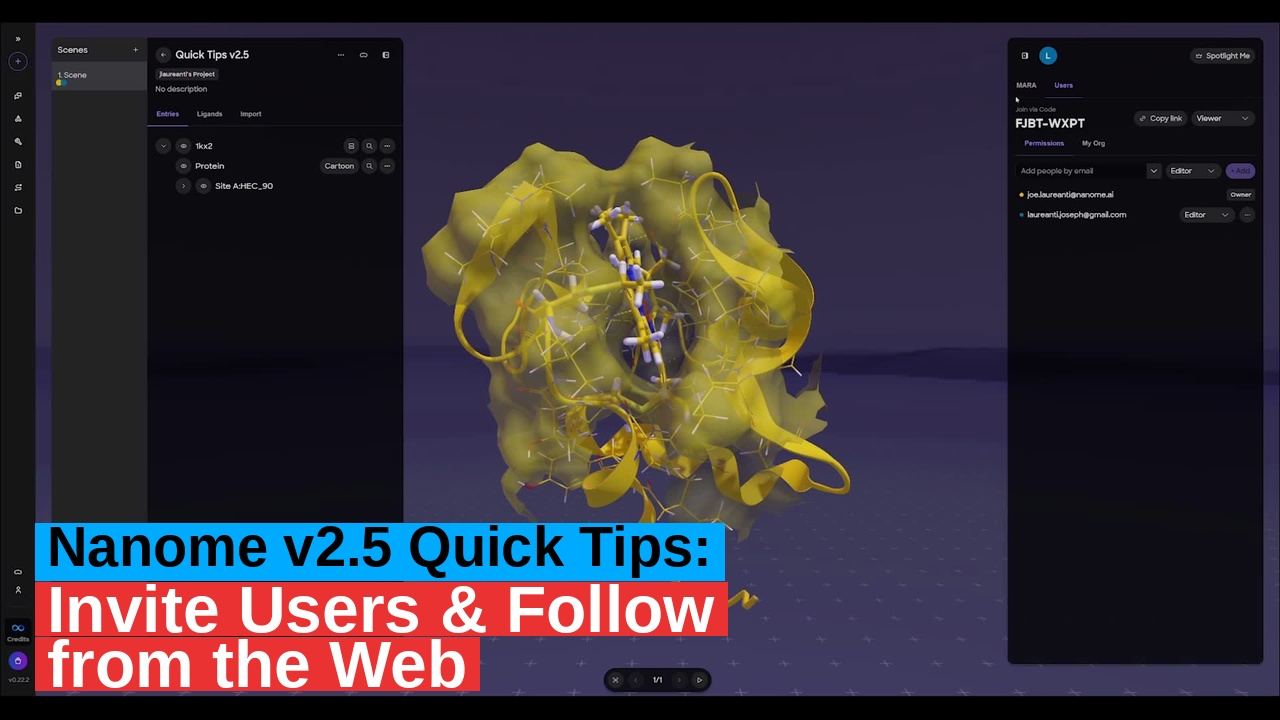
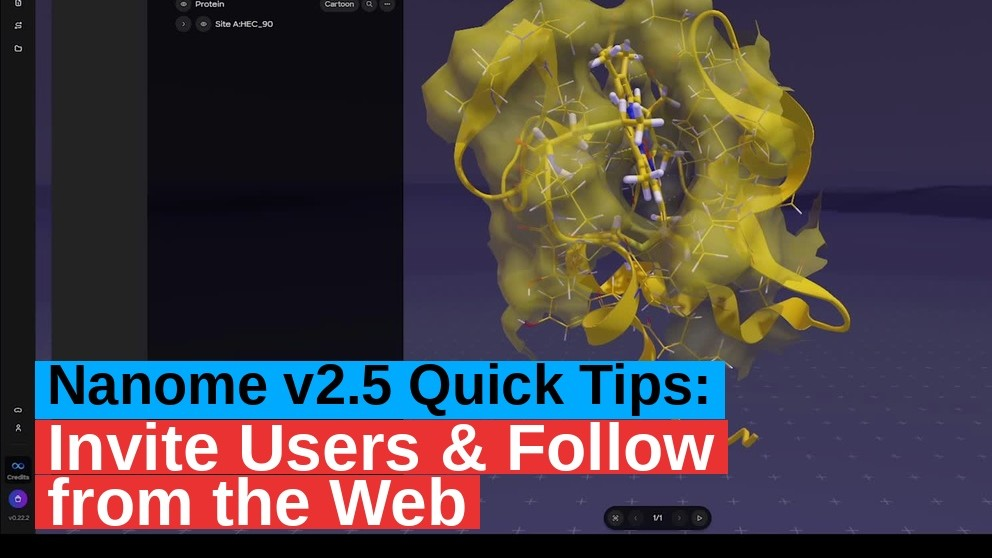
Hide real names in home and Classic media, and match session guide labels to the app
- Crop 3 Quick Tips thumbnails so no account name, email or workspace code shows
- Crop every frame of edm.gif and AvatarColor.gif to drop a user's name tag and the owner's room name
- Add a dark copy of the Multi-User View figure
- Crop the New menu screenshots above the half-cut Recent Projects heading
- Session Guide: MCP Setup sits in Settings (app.nanome.ai/mcp is a 404), scene and component labels match Nanome XR 2.7.1, Load for All asks the person loading, and only the Owner removes users
- Classic hardware tables use the matrix, legend and comfort styles; Hardware Requirements shows the Classic banner
- 2D Controller image sits beside its legend
- Choosing Hardware's closing line matches the Session Guide

diff --git a/docs/session-guide.md b/docs/session-guide.md
@@ -177,8 +177,8 @@ anywhere else.
       when: 'surface=mcp',
       options: [
         { id: 'claude', label: 'Claude Code', detail: 'The client Nanome documents, with the command below' },
-        { id: 'codex', label: 'Codex', detail: 'Listed in the MCP setup panel in the web app' },
-        { id: 'gemini', label: 'Gemini CLI', detail: 'Listed in the MCP setup panel in the web app' }
+        { id: 'codex', label: 'Codex', detail: 'Listed under MCP Setup in Settings in the web app' },
+        { id: 'gemini', label: 'Gemini CLI', detail: 'Listed under MCP Setup in Settings in the web app' }
       ]
     },
     {
@@ -220,8 +220,8 @@ anywhere else.
 
 <Steps>
 
-1. In the Workspaces tab, choose **+ New** to start a workspace, or open one
-   that already exists.
+1. In the Workspaces tab, choose <Btn icon="plus">New</Btn> to start a
+   workspace, or open one that already exists.
 2. Load a structure by PDB code. Components appear the same way they do in the
    browser.
 3. Set representations from the Components tab, hide what the view doesn't need,
@@ -268,8 +268,9 @@ about 2 minutes.
 
 <Steps>
 
-1. Open the MCP setup panel in the web app. It carries the exact command for
-   your client alongside the other clients.
+1. Open **MCP Setup** in Settings in the web app
+   ([MCP setup](/nanome_web/account#mcp-setup)). It carries the exact command
+   for your client alongside the other clients.
 2. Run that command, then sign in when the browser opens. The same Nanome
    account applies.
 3. Restart the client so the tools load into the session.
@@ -277,7 +278,7 @@ about 2 minutes.
 
 </Steps>
 
-[MCP setup panel](https://app.nanome.ai/mcp)
+[MCP Setup in Settings](https://app.nanome.ai/settings)
 
 </ChooserResult>
 
@@ -368,15 +369,17 @@ variation cheap and a clean slate equally cheap.
 
 <Steps>
 
-1. Set the view, then <Btn icon="plus">Create Scene</Btn>. The scene keeps the
+1. Set the view, then <Btn icon="plus">Create scene</Btn>. The scene keeps the
    representations and visibility exactly as they are at that moment.
-2. Use <Btn icon="scan-eye">Set Scene POV</Btn> so switching to the scene lands
-   every user in the same framing, and leave
-   <Btn icon="perspective">Enable Scene POV</Btn> on for the session.
-3. **Duplicate Scene** for the next step, change one thing, and keep going. Each
-   scene reveals a little more than the one before it.
-4. **Reorder Scenes** by dragging, and rename from **Scene Options**, so the
-   order matches how the session runs.
+2. Use <Btn icon="scan-eye">Set scene POV</Btn> so switching to the scene lands
+   every user in the same framing, and leave scene POVs on for the session with
+   <Btn icon="perspective">Enable/disable scene POVs</Btn>.
+3. Choose **Duplicate** in the scene's <AppIcon name="dots" /> menu for the next
+   step, change one thing, and keep going. Each scene reveals a little more than
+   the one before it.
+4. Drag a scene by its handle to reorder it, and choose **Rename** in its
+   <AppIcon name="dots" /> menu, so the order and names match how the session
+   runs.
 
 </Steps>
 
@@ -459,9 +462,9 @@ and labels each move the number on their own.
 
 <Card title="Hide first">
 
-**Hide/Show All** clears the view, and **Hide/Show Entry** brings back one
-component at a time. Everything shown counts, whether or not it's visible behind
-something else.
+<Btn icon="eye">Hide All</Btn> clears the view, and the eye button on each
+component's row brings back one component at a time. Everything shown counts,
+whether or not it's visible behind something else.
 
 </Card>
 
@@ -531,7 +534,7 @@ Makes all changes, and invites others to view or edit.
 
 <Card title="Owner">
 
-Everything an Editor can do, plus deleting the workspace.
+Everything an Editor can do, plus removing users and deleting the workspace.
 
 </Card>
 
@@ -559,7 +562,8 @@ being built.
 3. Add named users by email with their own level. The address has to match
    exactly, since the field has no autocomplete.
 4. Change one user later from the <AppIcon name="dots" /> menu next to their
-   name, which offers **Make Editor** and **Remove User**.
+   name, which offers **Make Editor** or **Make Viewer** and, for the Owner,
+   **Remove User**.
 
 </Steps>
 
@@ -613,8 +617,8 @@ needs to edit while the rest only watch.
 <Callout type="note" title="Taking access back">
 
 Access can be pulled back at any point. The global level can drop to **None**,
-and one user can be changed or removed from the <AppIcon name="dots" /> menu
-beside their name without affecting anyone else.
+and one user can be changed, or removed by the Owner, from the
+<AppIcon name="dots" /> menu beside their name without affecting anyone else.
 
 </Callout>
 
@@ -635,7 +639,7 @@ points where.
 <UiList label="Spotlight and follow">
 <UiItem icon="crown" name="Spotlight Me" area="2.8,81.6,20.1,6.0">Makes your view the shared view. Followers see it with a crown icon.</UiItem>
 <UiItem name="Stop" area="76.3,82.4,4.9,5.4">Lets a follower break away.</UiItem>
-<UiItem icon="analyze-filled" name="Reset Orientation" area="73.3,82.4,2.9,5.4">Brings back a follower who got turned around.</UiItem>
+<UiItem icon="analyze-filled" name="Reset orientation" area="73.3,82.4,2.9,5.4">Brings back a follower who got turned around.</UiItem>
 </UiList>
 
 </ShotRow>
@@ -678,10 +682,10 @@ button for the moments between speaking.
 <Accordion title="Move the group, or move alone" teaser="Load for All brings the group; Load moves one user.">
 
 **Load for All** takes every user in the current workspace to the next one, with
-a notification that lets them opt out or go immediately. Users without permission
-on the destination are prompted for one, which is another reason to set
-permissions before the session. **Load** moves one user and leaves the rest where
-they are.
+a notification that lets them opt out or go immediately. When some users can't
+open the destination, Nanome asks whoever chose Load for All to add them as
+Viewers or Editors, which is another reason to set permissions before the
+session. **Load** moves one user and leaves the rest where they are.
 
 </Accordion>
 

diff --git a/docs/help/choosinghardware-classic.md b/docs/help/choosinghardware-classic.md
@@ -20,7 +20,7 @@ release, see [Choosing Hardware](/help/choosinghardware).
 
 ## <AppIcon name="device-vision-pro" /> Headset comparison matrix {#nanome-classic-v1-24-headset-comparison-matrix}
 
-<table>
+<table class="matrix">
     <col style="width: 15%;" />
     <!-- <col style="width: 10%;" />
     <col style="width: 10%;" />
@@ -185,7 +185,7 @@ significantly. ‘Shown Atom Count’ column is given nothing else is displayed 
 
 ### Comfort legend {#comfort-legend-nanome-classic-v1-24}
 
-<table>
+<table class="legend">
     <thead>
         <tr>
             <th>Comfortability</th>
@@ -210,7 +210,7 @@ significantly. ‘Shown Atom Count’ column is given nothing else is displayed 
 
 ### Comfort comparison {#comfort-comparison-nanome-classic-v1-24}
 
-<table>
+<table class="comfort">
     <thead>
         <tr>
             <th></th>

diff --git a/docs/controls/overview.md b/docs/controls/overview.md
@@ -42,7 +42,7 @@ title: Nanome Controls
 
 ## 2D Controller Bindings
 
-<ShotRow src="controls-page/2D_Controller.png" alt="A gamepad with the Nanome bindings for each button">
+<ShotRow src="controls-page/2D_Controller.png" alt="A gamepad with the Nanome bindings for each button" crop="28,4,48,93">
 
 **Joystick**
 
@@ -88,7 +88,7 @@ title: Nanome Controls
 **Axes values preset**
 
 <UiList label="Axes values preset">
-<UiItem name="Presets" area="2.7,81.3,14.7,16.0">Low: Max = 1.5. Medium: Max = 3. High: Max = 5. Max: Max = 10.</UiItem>
+<UiItem name="Presets">Low: Max = 1.5. Medium: Max = 3. High: Max = 5. Max: Max = 10.</UiItem>
 </UiList>
 
 </ShotRow>

diff --git a/docs/help/choosinghardware.md b/docs/help/choosinghardware.md
@@ -360,5 +360,5 @@ The tables below show how much structure each platform shows comfortably.
 
 Keeping a session inside these numbers is covered in
 [Keep it comfortable](/session-guide#comfort): hide what a scene does not need,
-step surfaces down a density, and show one atomistic representation per
-component.
+keep surfaces to the pocket or hide them, and show one atomistic
+representation per component.

diff --git a/docs/help/hardwarerequirements.md b/docs/help/hardwarerequirements.md
@@ -1,5 +1,6 @@
 ---
 title: Hardware Requirements
+classic: true
 ---
 
 # Hardware Requirements
